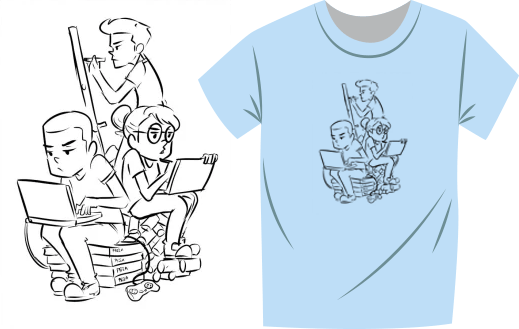
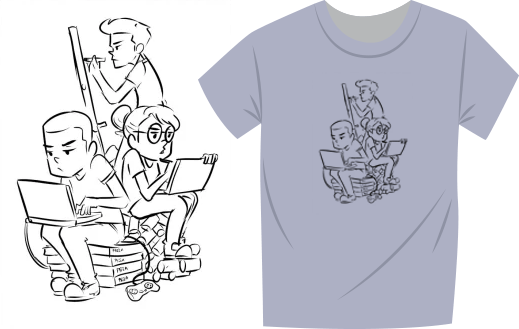
Change tshirt mockup color and Update wording of footer
Tshirt color set to Heather Blue

diff --git a/index.html b/index.html
@@ -716,17 +716,14 @@
 						<div class="site-logo">
 							<a href="index.html" class="full-block"></a>
 							<div class="logo-text">
-								<div class="logo-title">Global Game Jam</div>
-								<div class="logo-sub-title">Calgary</div>
+								<div class="logo-title">CALGARY</div>
+								<div class="logo-sub-title">Global Game Jam</div>
 							</div>
 						</div>
-
-						<p>Claritas est etiam processus dynamicus, qui sequitur mutationem
-							consuetudium lectorum. Mirum est notare quam littera gothica, quam nunc putamus parum claram,
-							anteposuerit litterarum formas humanitatis per. Investigationes demonstraverunt lectores
-							legere me lius quod ii legunt saepius.
-						</p>
-
+						<p>Calgary has been a jam site since 2010.<br>
+						  In 2017, we were proud to be one of 700 locations (in 95 countries), which turned out over 7000 games in a 48 hour period.<br>
+  							<br>
+						  We look forward to continue the tradition in 2018 of bringing people together from different skillsets to create amazing video games, all while fighting sleep deprivation.</p>
 						<a href="02_company.html" class="learn-more">register on globalgamejam.com</a>
 					</div>
 
